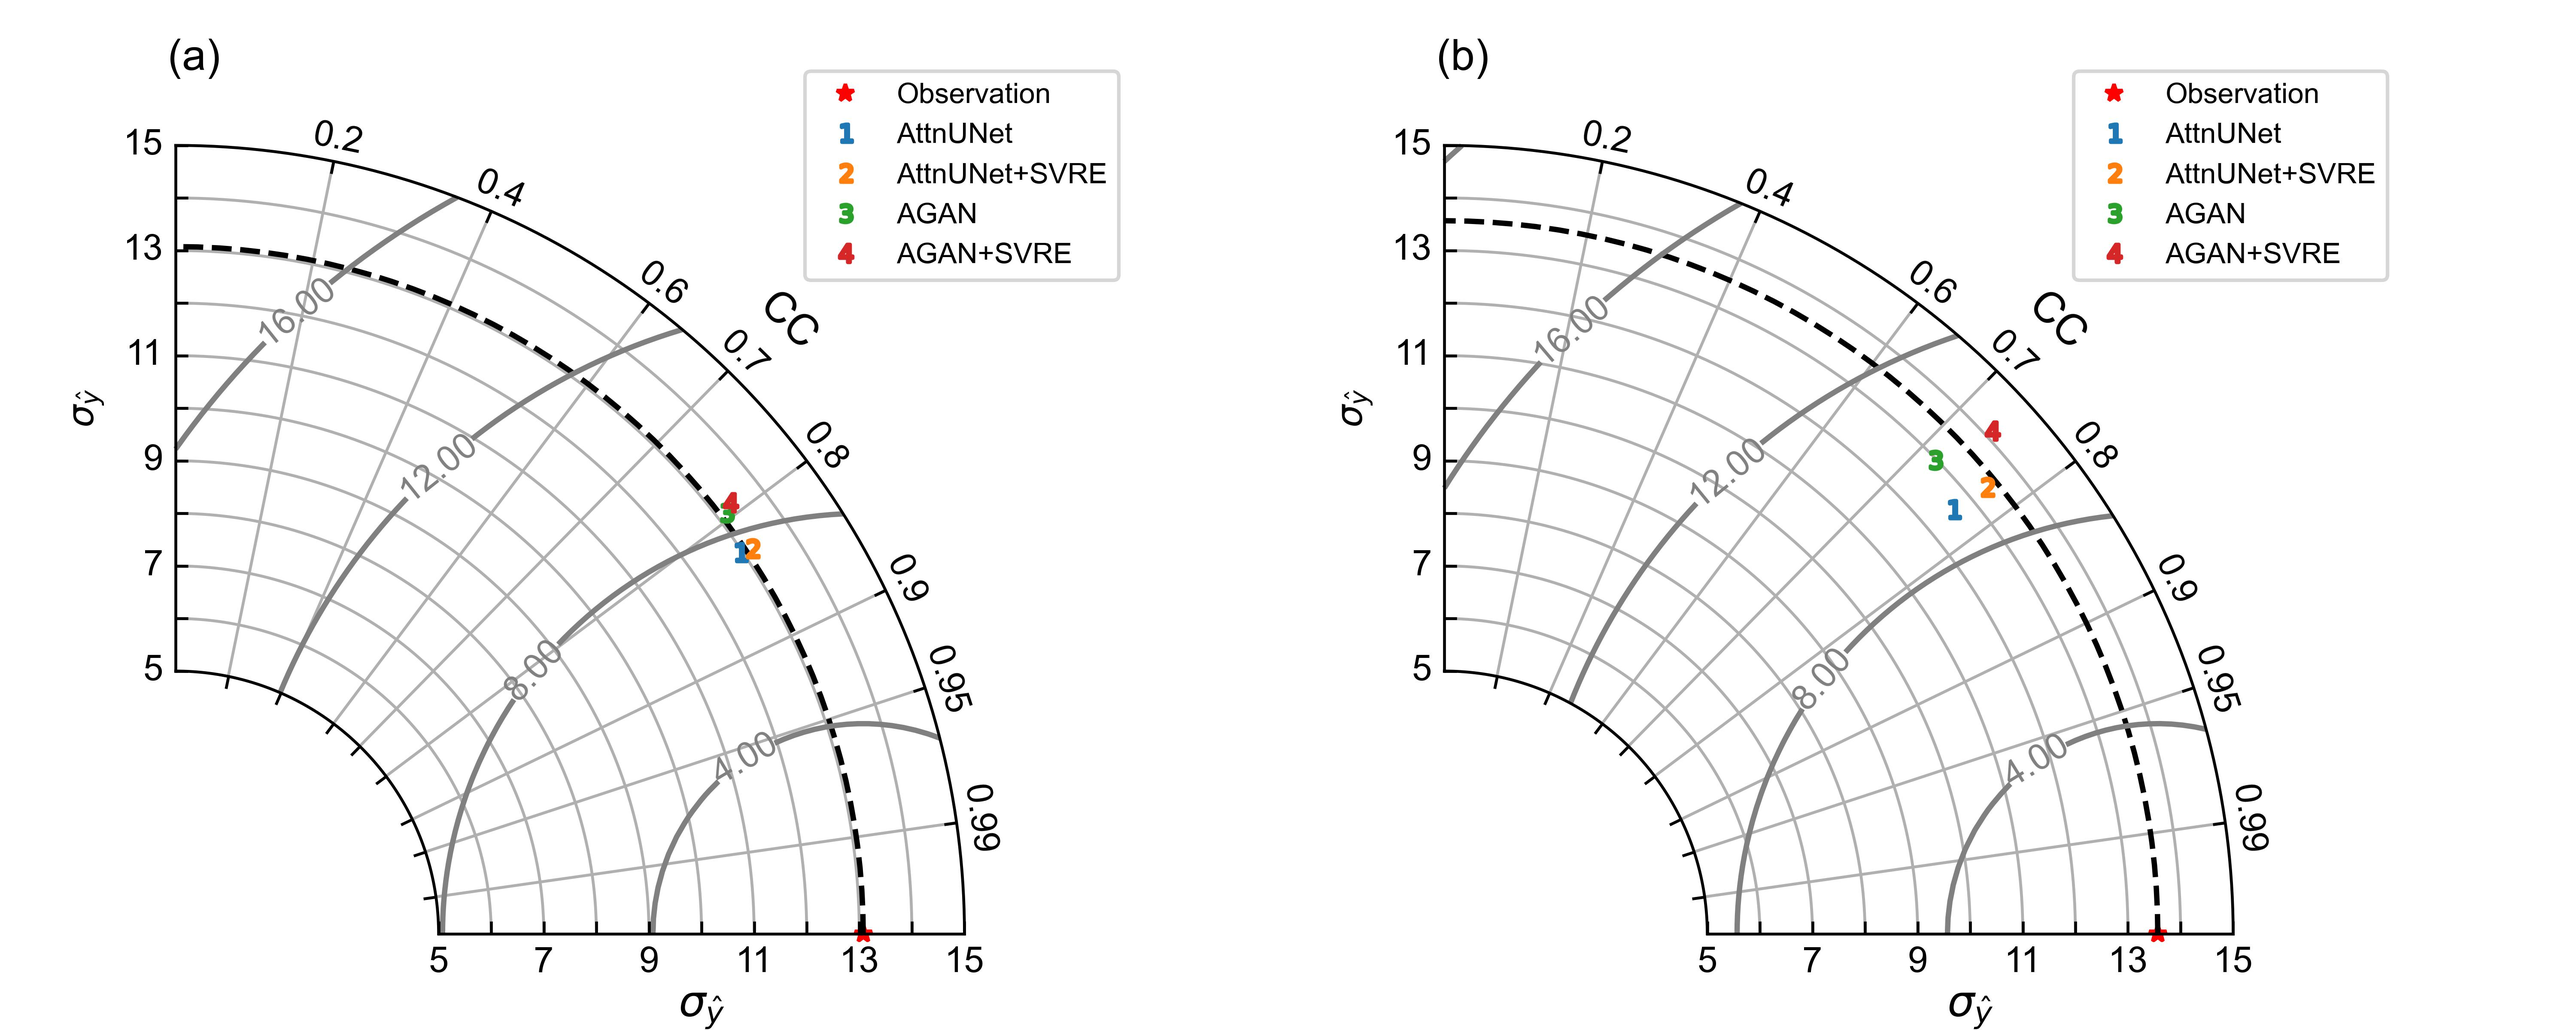
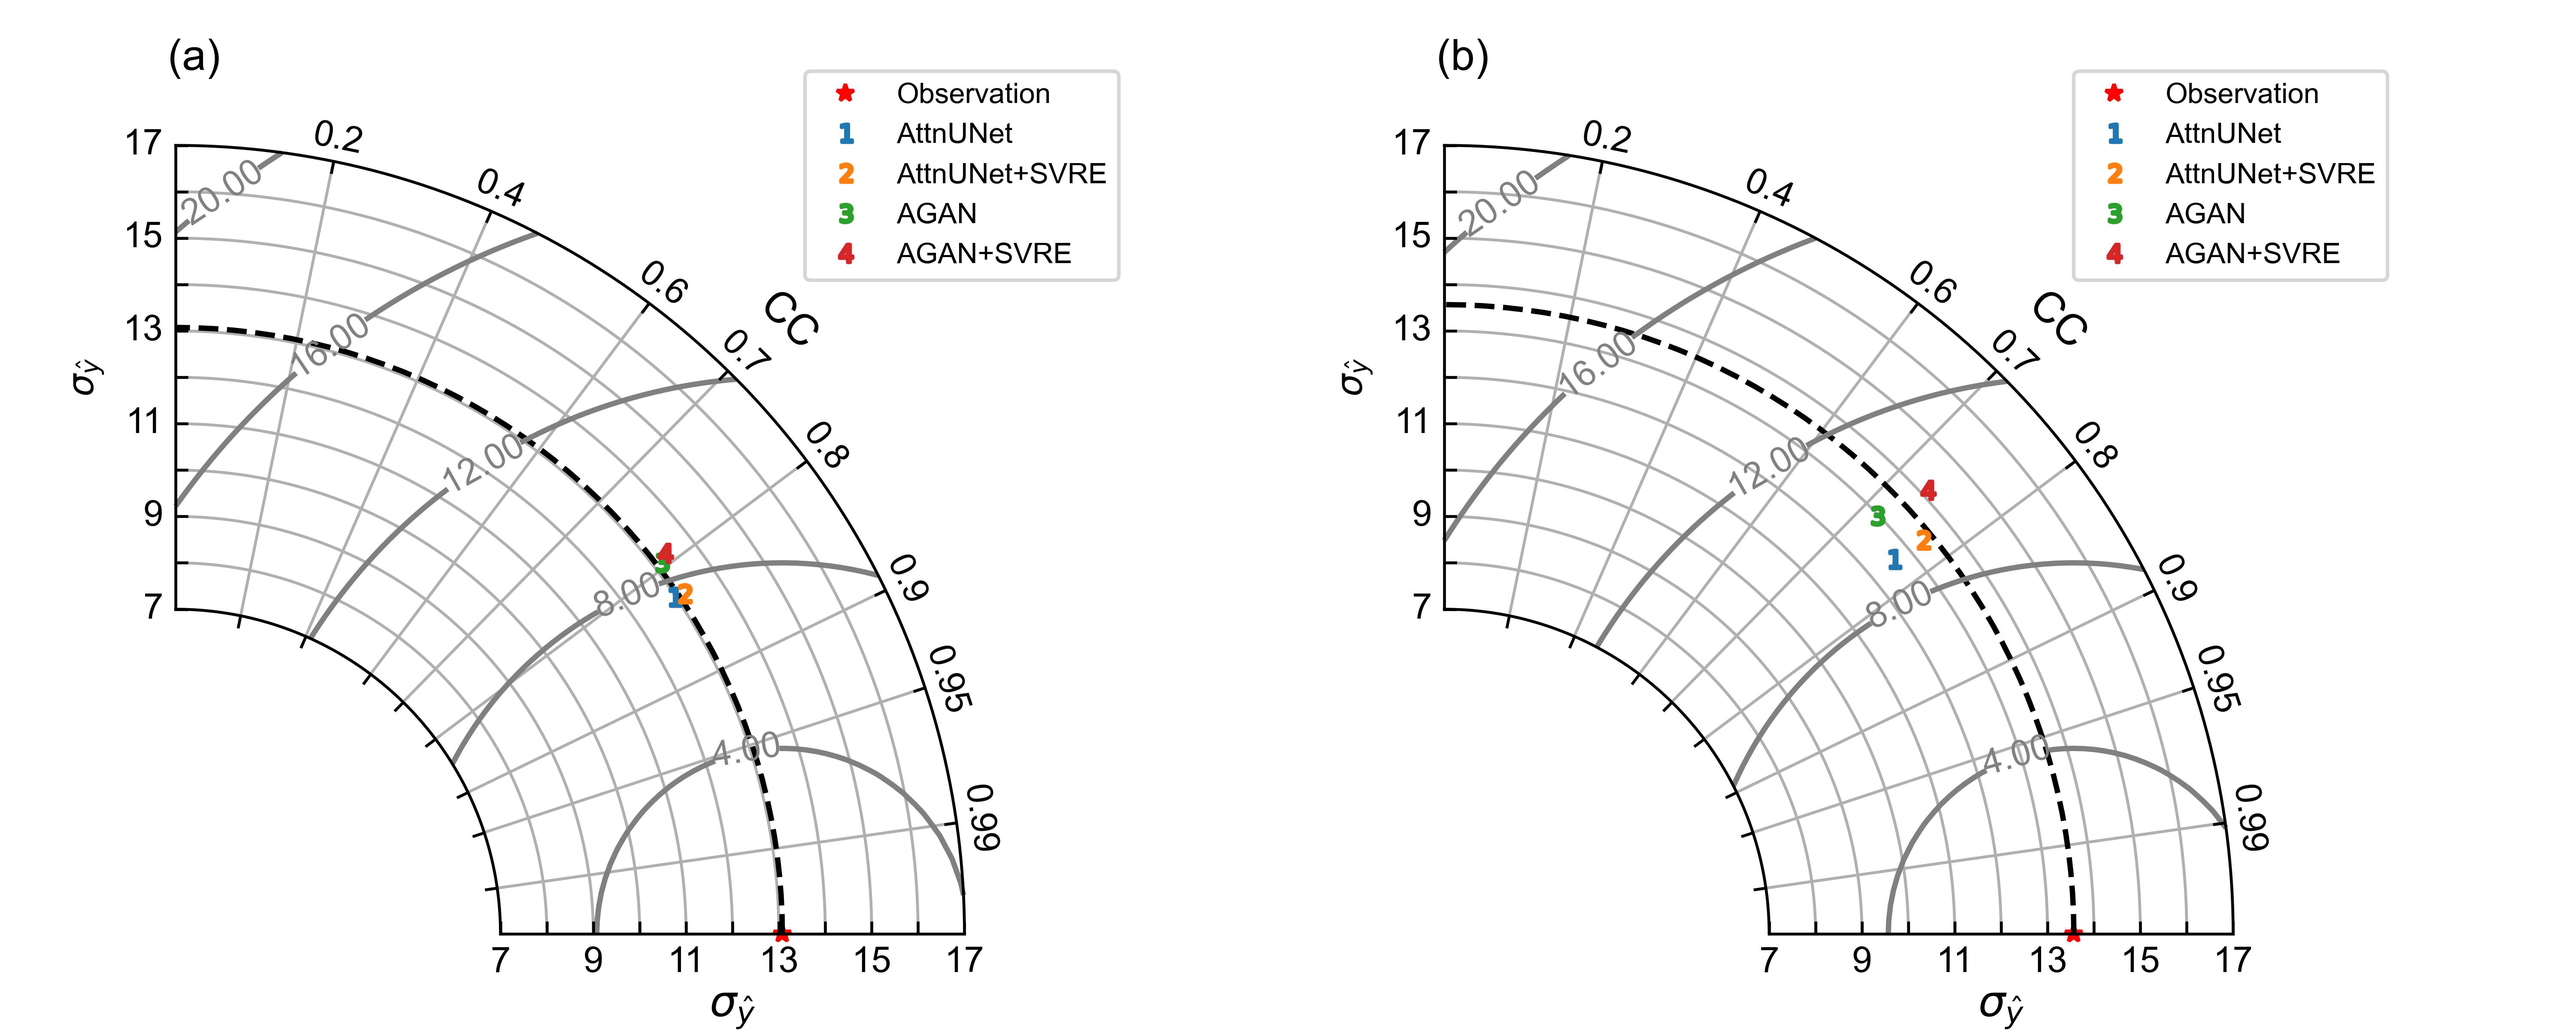
Update Taylor diagram

diff --git a/localutils/plot_talyor_diagram.py b/localutils/plot_talyor_diagram.py
@@ -68,10 +68,10 @@ if __name__ == '__main__':
     plot_taylor_diagram('results', 
                         ['AttnUNet', 'AttnUNet_CV', 'AttnUNet_GAN', 'AttnUNet_GAN_CV'], 
                         ['AttnUNet', 'AttnUNet+SVRE', 'AGAN', 'AGAN+SVRE'], 
-                        'localutils/taylor_ablation.jpg', std_range=[5, 15], std_num=6, 
+                        'localutils/taylor_ablation.jpg', std_range=[7, 17], std_num=6, 
                         colors=colors.colors)
     plot_taylor_diagram('results',
                         ['PySTEPS', 'ConvLSTM', 'SmaAt_UNet', 'AttnUNet_GAN_CV'], 
-                        ['PySTEPS', 'ConvLSTM-EF', 'SmaAt-UNet', 'AGAN+SVRE'],
-                        'localutils/taylor_comparison.jpg', std_range=[5, 15], std_num=6, 
+                        ['PySTEPS', 'ConvLSTM-EF', 'SmaAt-UNet', 'AGAN+SVRE (ours)'],
+                        'localutils/taylor_comparison.jpg', std_range=[7, 17], std_num=6, 
                         colors=colors.colors)
